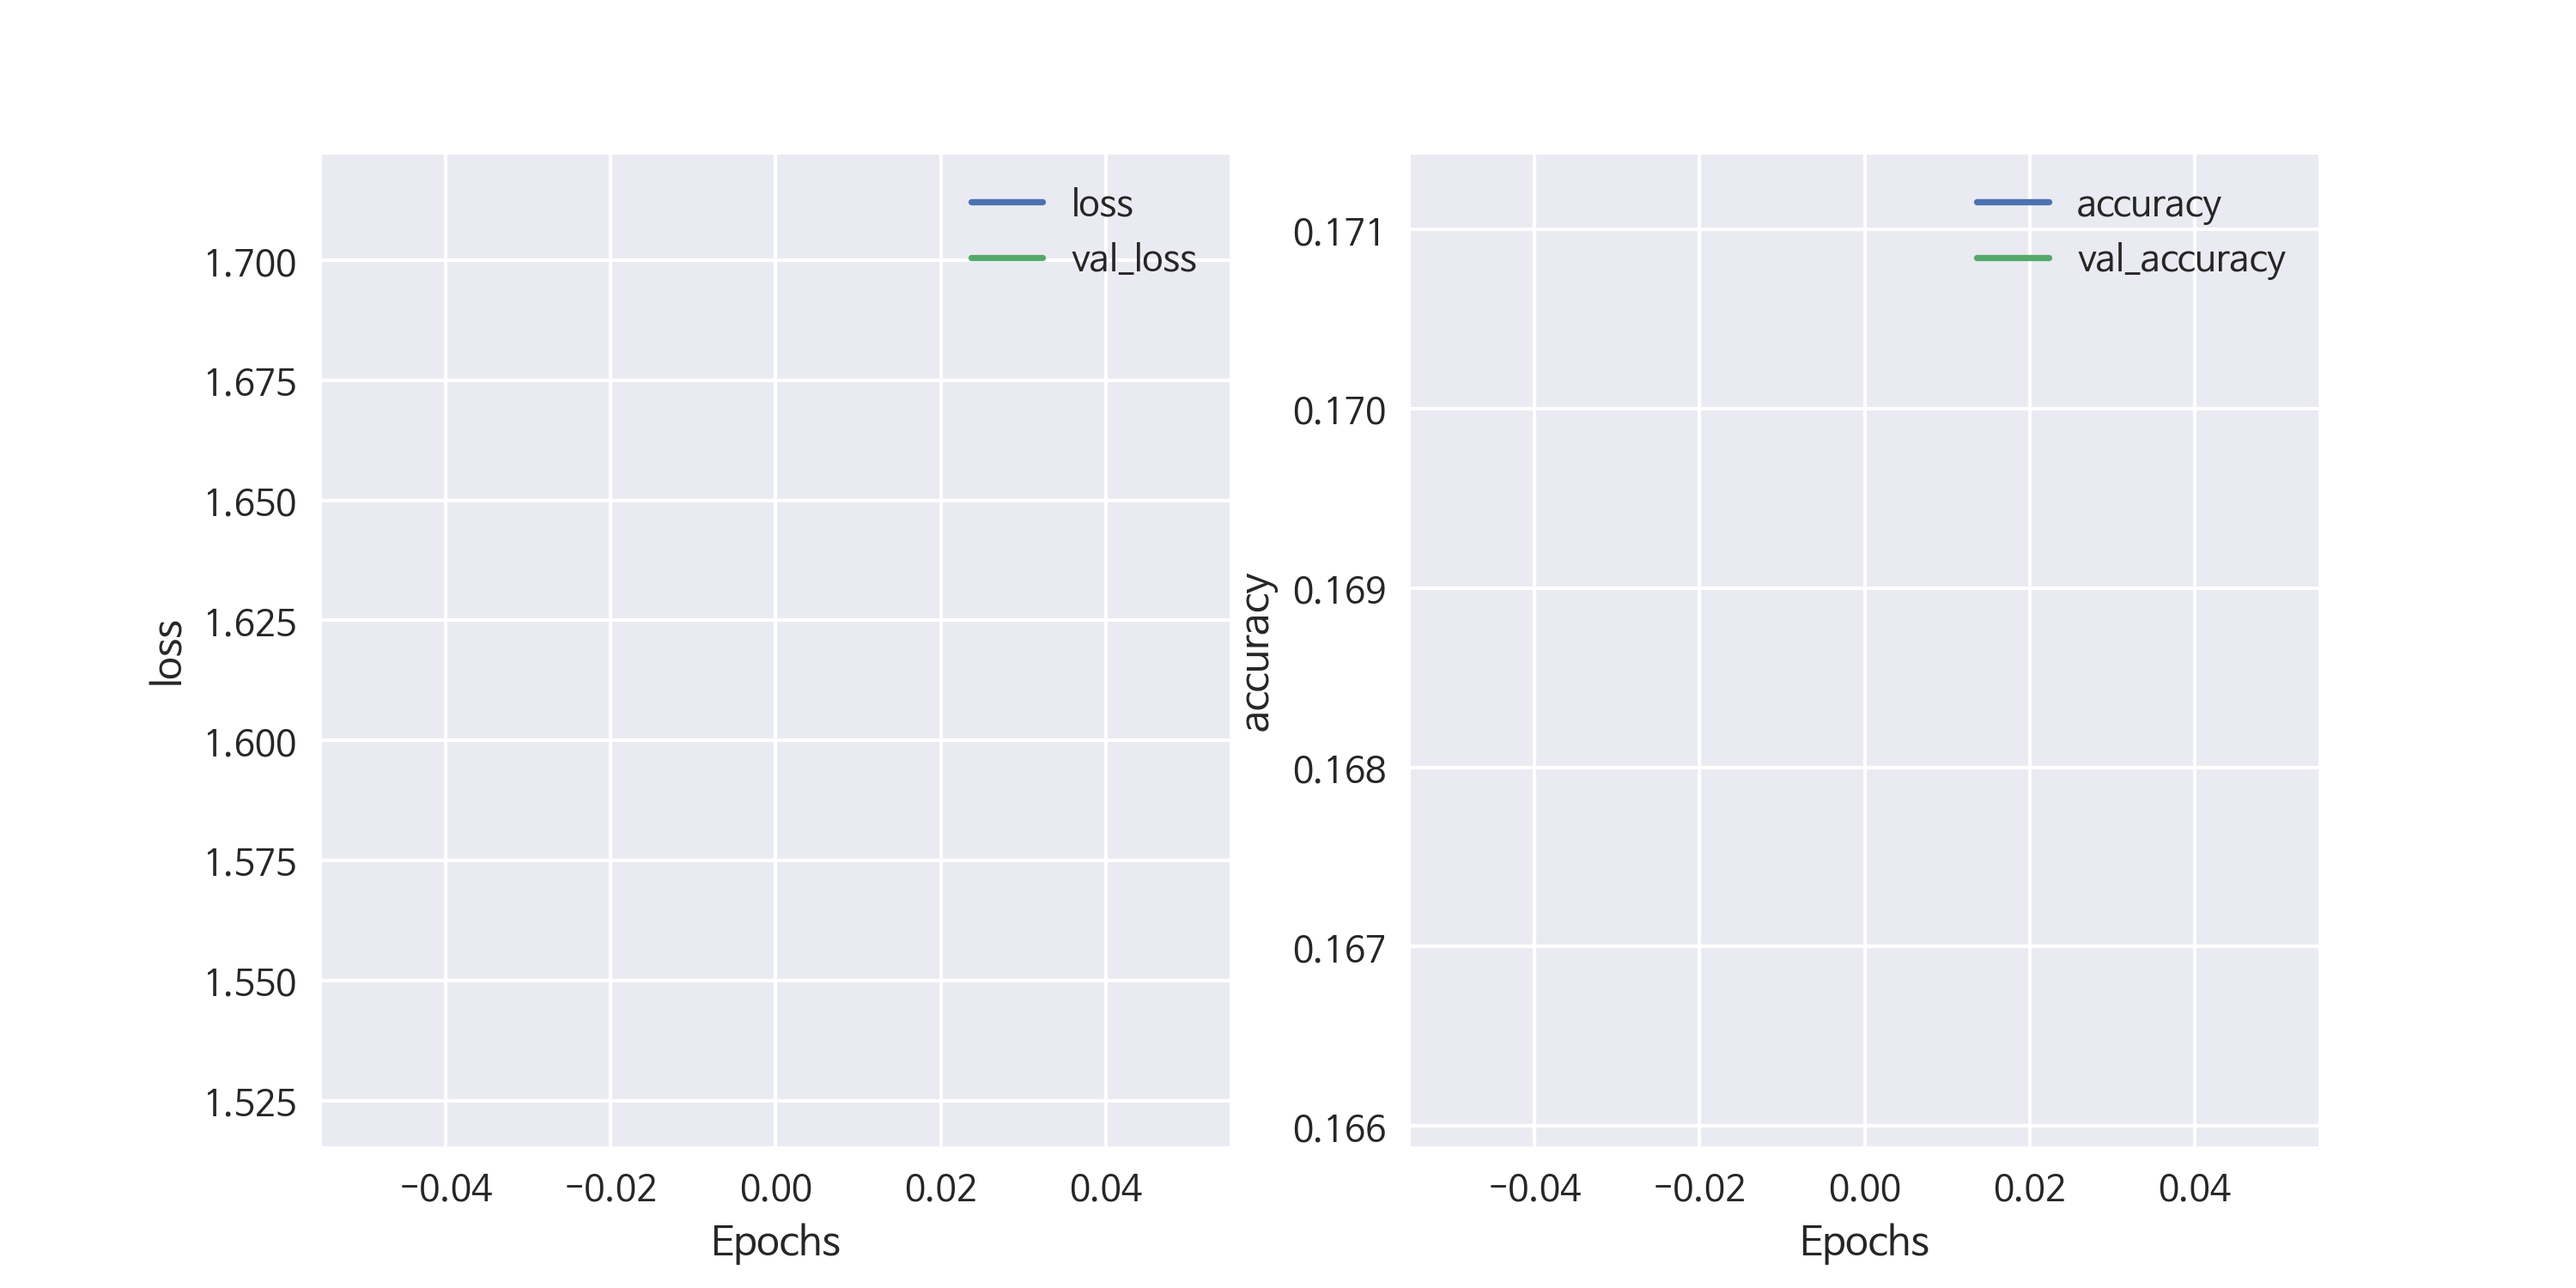
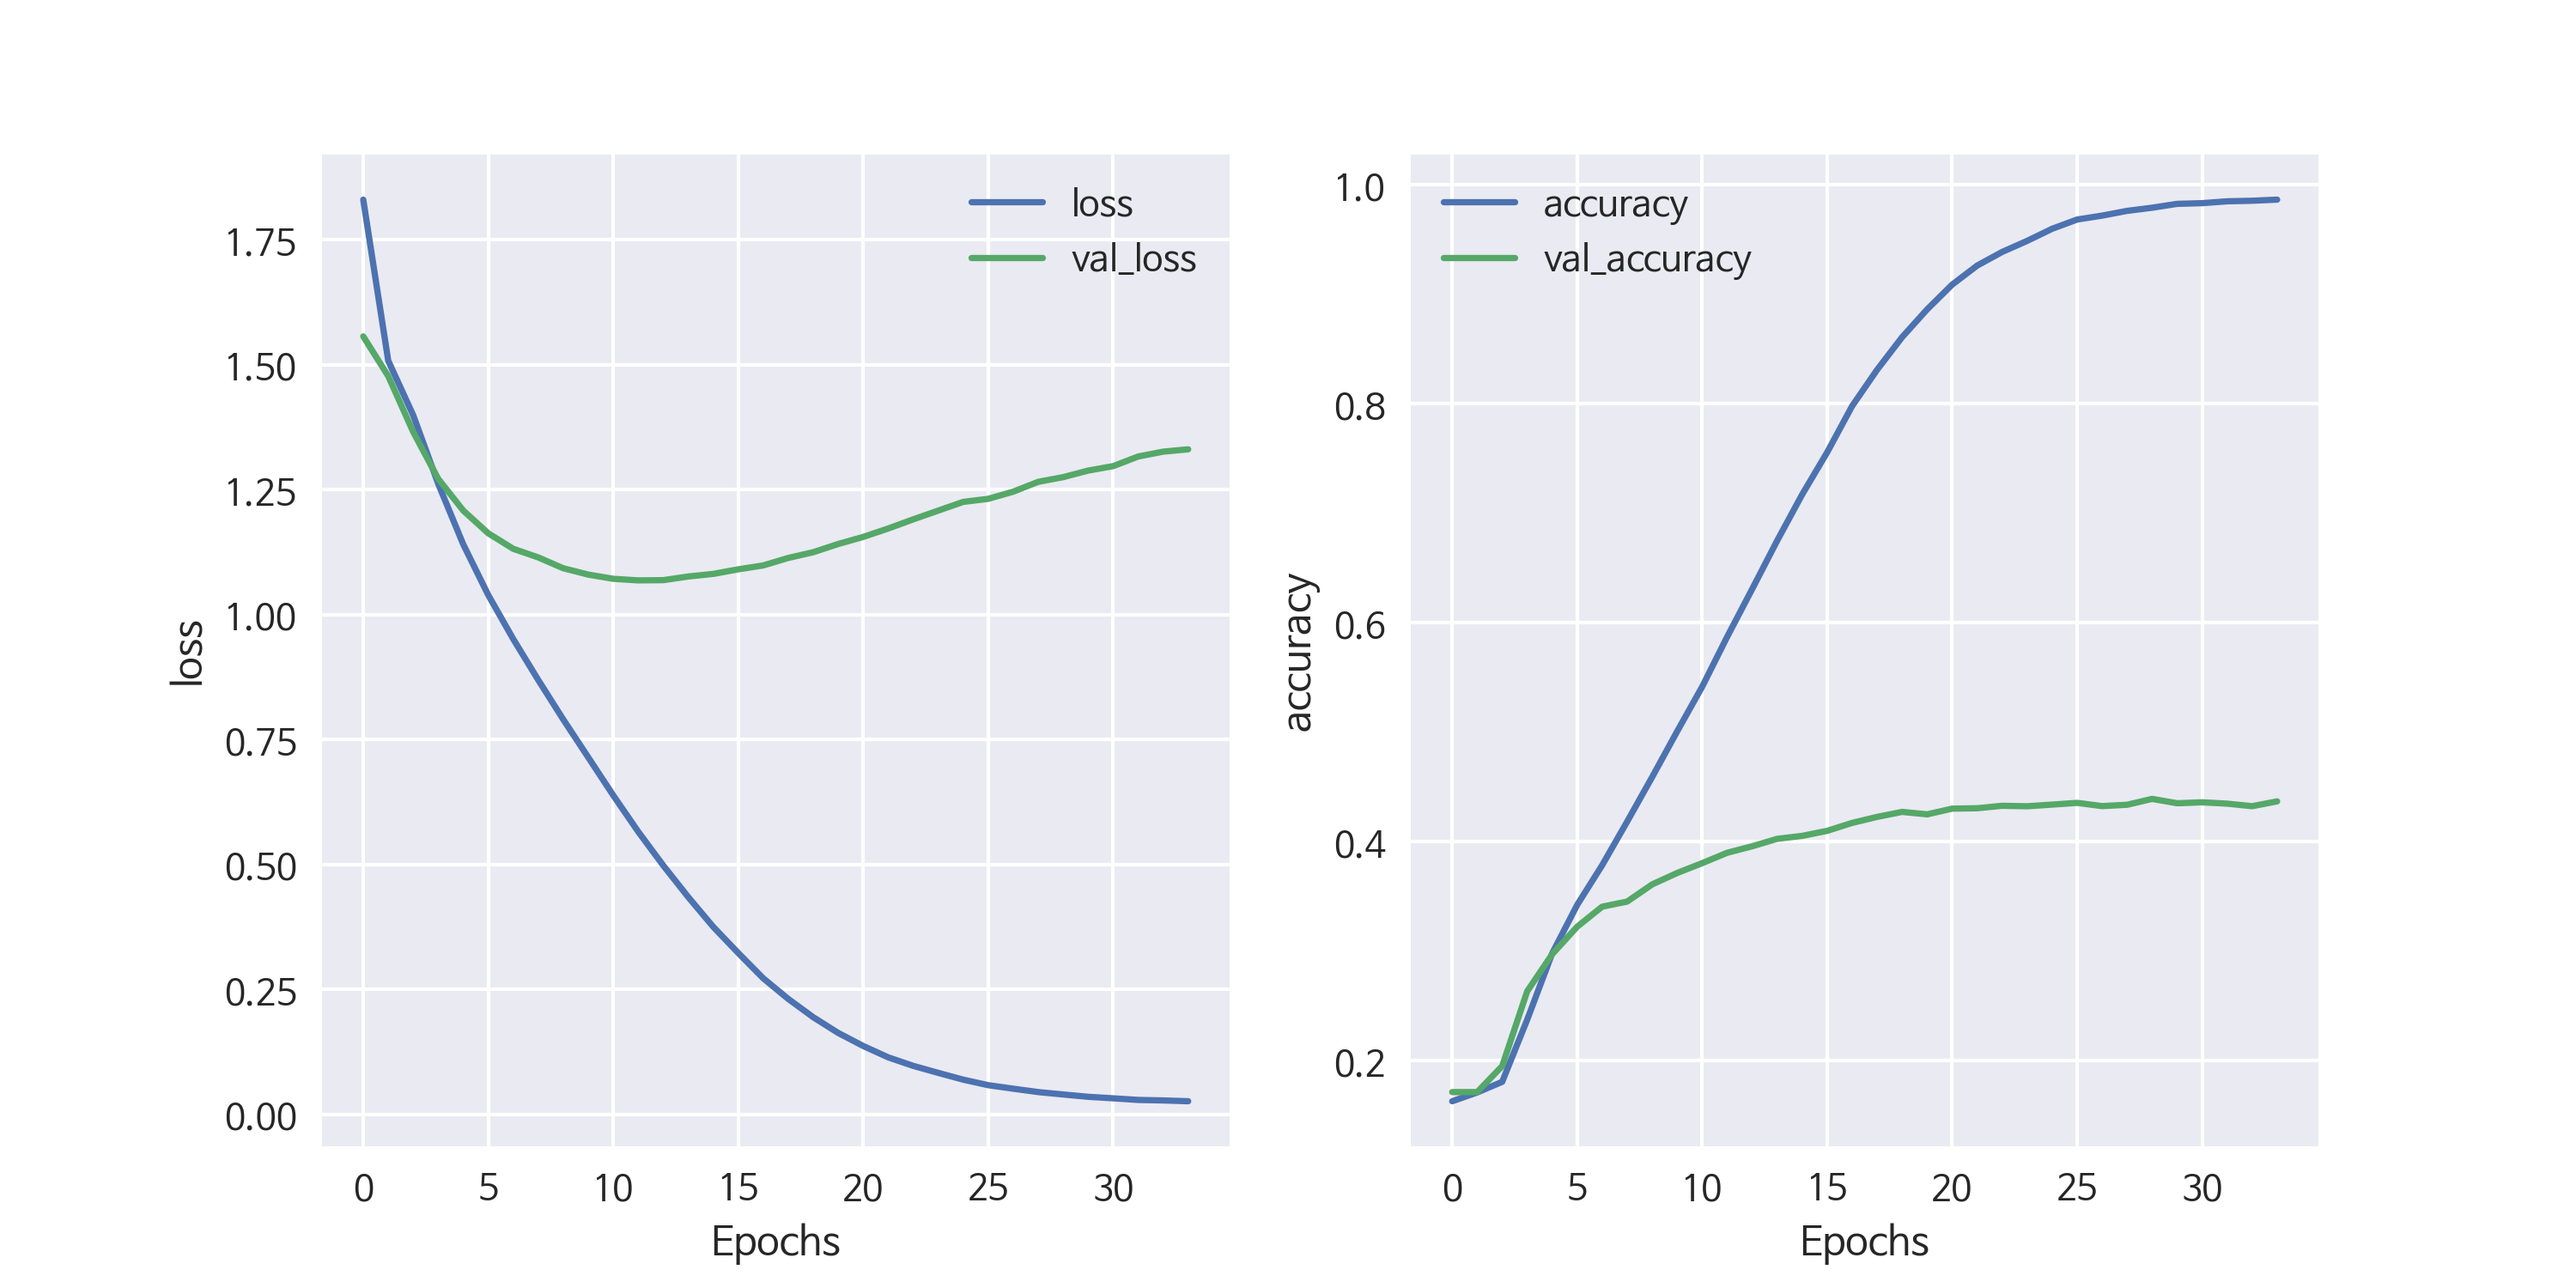
nlp_suan, transformer

diff --git a/src/00. SuanLab/13. transformer_chollet.py b/src/00. SuanLab/13. transformer_chollet.py
@@ -36,7 +36,7 @@ ffn_dim = 512
 num_heads = 8
 num_layers = 4
 
-epochs = 1
+epochs = 100
 batch_size = 256
 dropout = 0.2
 learning_rate = 0.001
@@ -274,14 +274,15 @@ decoder_outputs = Dense(vocab_size, activation="softmax")(x)
 transformer = Model(
     inputs={"encoder": encoder_inputs, "decoder": decoder_inputs}, outputs=decoder_outputs
 )
+optimizer = Adam(learning_rate=learning_rate)
 transformer.compile(
-    optimizer="rmsprop", loss="sparse_categorical_crossentropy", metrics=["accuracy"]
+    optimizer=optimizer, loss="sparse_categorical_crossentropy", metrics=["accuracy"]
 )
 plot_model(transformer, "images/seq2seq_transformer.png", show_shapes=True)
 transformer.summary()
 
 callbacks = [
-    EarlyStopping(monitor="val_accuracy", min_delta=0.001, patience=2),
+    EarlyStopping(monitor="val_accuracy", min_delta=0.0001, patience=5),
     ModelCheckpoint("../data/seq2seq_transformer.keras", save_best_only=True),
 ]
 history = transformer.fit(
@@ -305,8 +306,7 @@ plt.savefig("images/13-transformer_keras", dpi=300)
 def index2string(lines, dictionary):
     sentence = []
     finished = False
-    for line in lines:
-        sentence = [dictionary[idx] for idx in line]
+    sentence = [dictionary[idx] for idx in lines]
     answer = ""
     for word in sentence:
         if word == END:
@@ -326,9 +326,8 @@ def chatbot(sentence):
         if i > 0:
             outputs, _ = decoder_output_preprocessing([answer], cha2idx)
         predictions = transformer([inputs, outputs])
-        predictions = tf.argmax(predictions[0, i, :]).numpy()
-        predictions = tf.argmax(predictions, axis=2).numpy()
-        print(predictions)
+        predictions = [tf.argmax(predictions[0, i, :]).numpy()]
+        # predictions = tf.argmax(predictions, axis=2).numpy()
         answer, finished = index2string(predictions, idx2cha)
         if finished:
             break

diff --git a/src/00. SuanLab/13. transformer_keras.py b/src/00. SuanLab/13. transformer_keras.py
@@ -147,7 +147,7 @@ def scaled_dot_product_attention(query, key, value, mask=False):
         diag_values = tf.ones_like(outputs[0, :, :])
         triangular = tf.linalg.LinearOperatorLowerTriangular(diag_values).to_dense()
         masks = tf.tile(tf.expand_dims(triangular, 0), multiples=[tf.shape(outputs)[0], 1, 1])
-        paddings = tf.ones_like(masks) * (-(2 ** 30))
+        paddings = tf.ones_like(masks) * (-(2**30))
         outputs = tf.where(tf.equal(masks, 0), paddings, outputs)
 
     attention_map = tf.nn.softmax(outputs)
